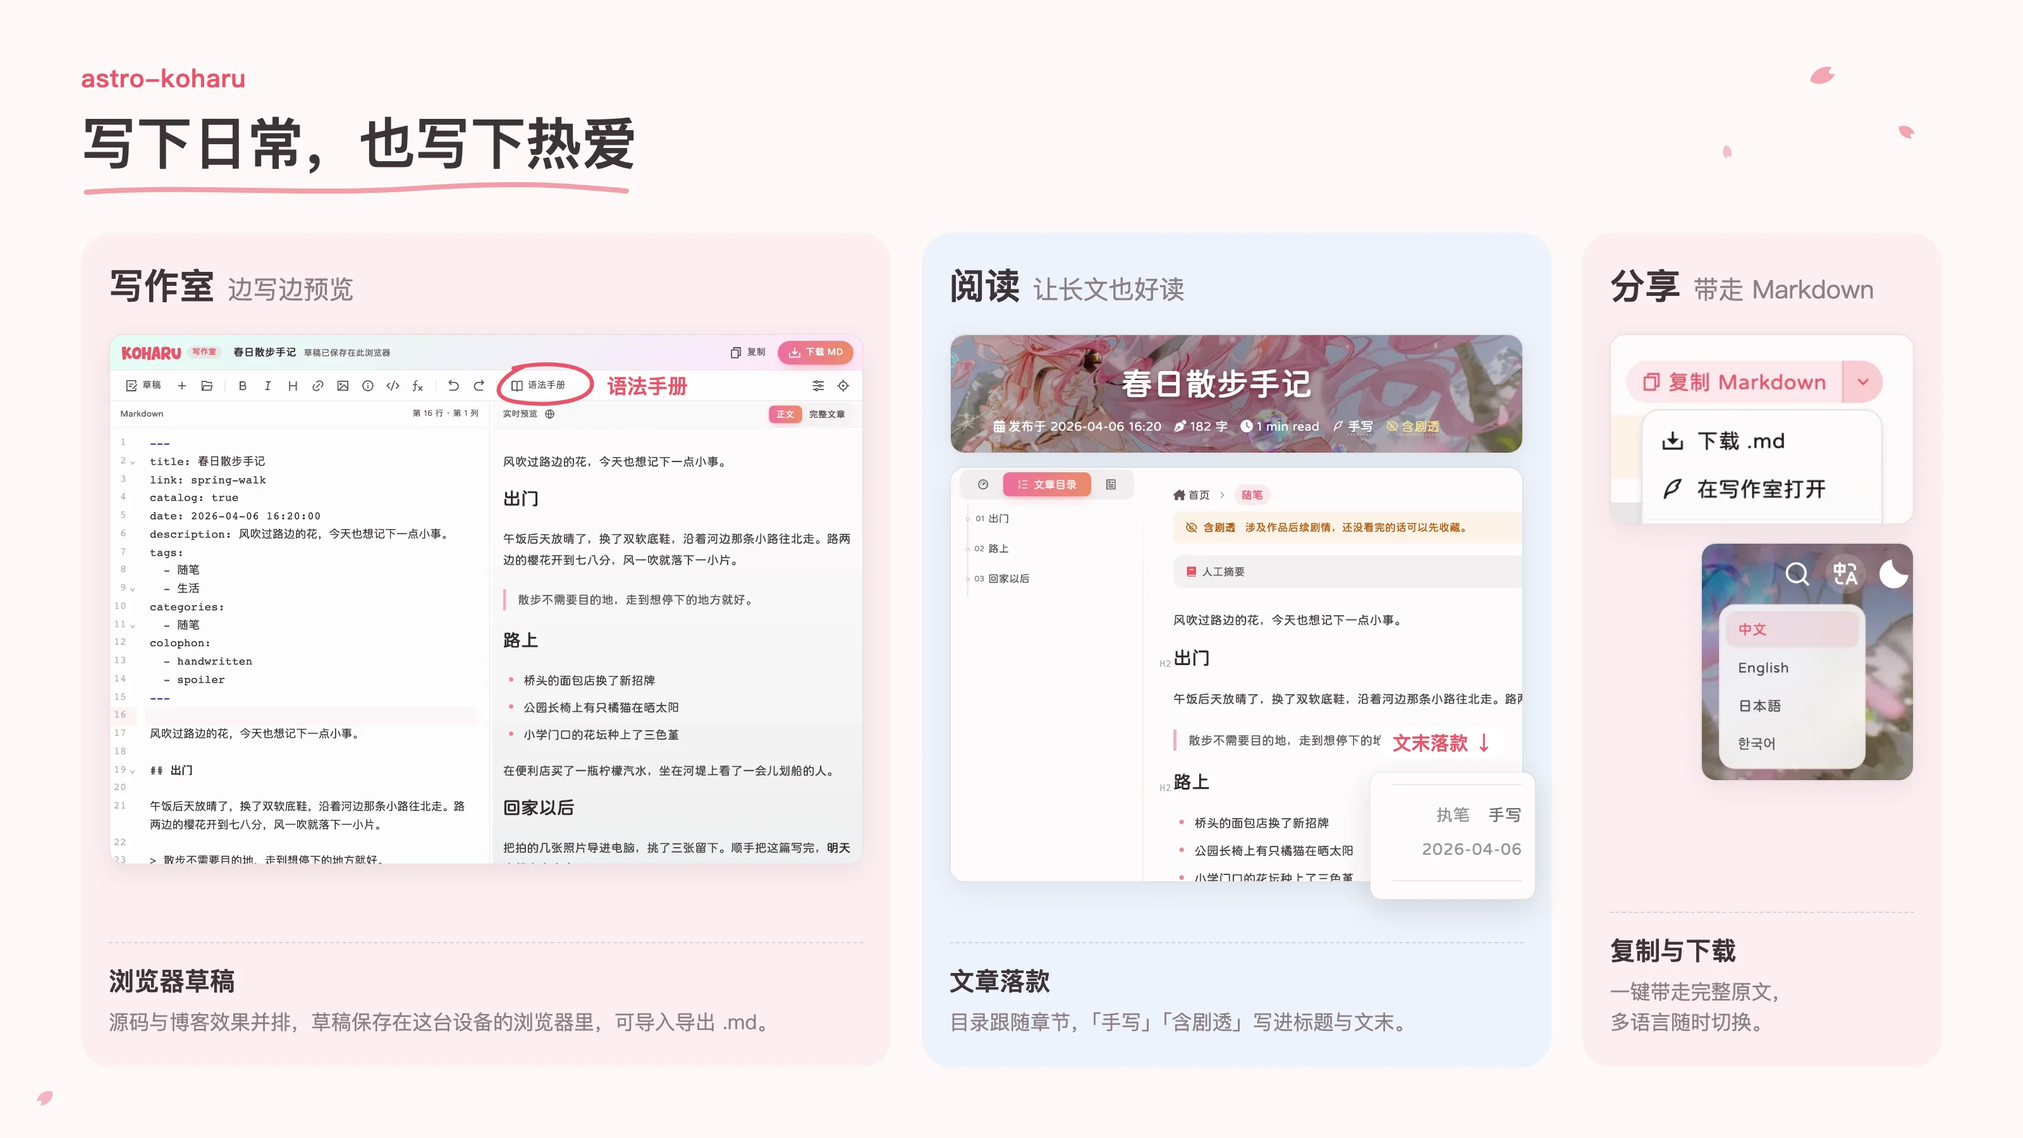
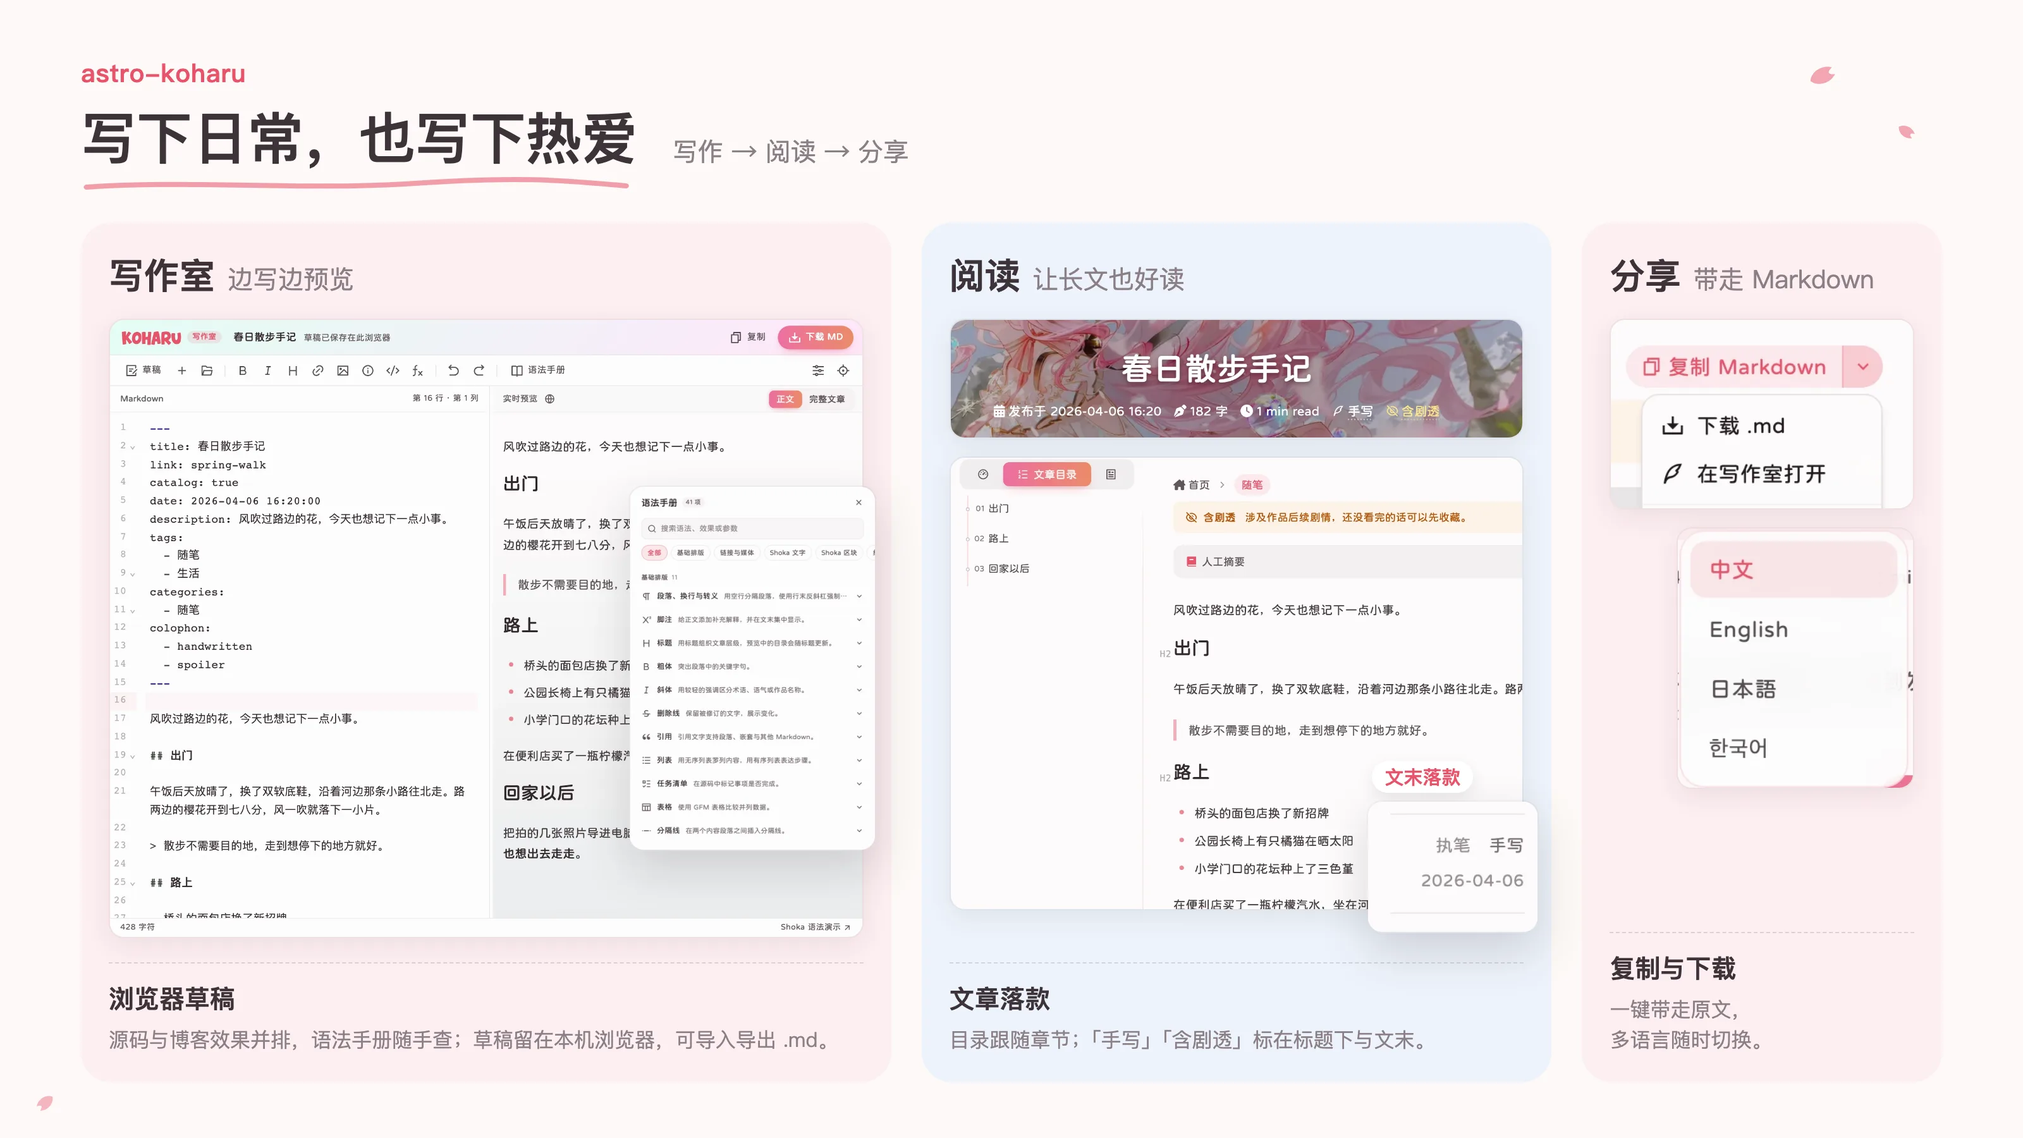
docs: polish README feature card and add markdown and organize cards

diff --git a/docs/design/readme-feature-overview/index.html b/docs/design/readme-feature-overview/index.html
@@ -1,114 +1,68 @@
 <!doctype html>
-<!--
-  README 功能概览图源文件（1600 × 900）。
-  截图来自演示文章《春日散步手记》，见 ../readme-visual-brief.md。
-  导出：用浏览器以 1600 × 900 视口截图，再转为 docs/assets/readme-feature-overview.zh.webp。
--->
+<!-- README 功能卡片：写作 · 阅读 · 分享。截图来自演示文章《春日散步手记》，见 ../readme-visual-brief.md。 -->
 <html lang="zh-CN">
   <head>
     <meta charset="utf-8" />
-    <title>astro-koharu README 功能概览</title>
+    <title>astro-koharu · 写作、阅读与分享</title>
+    <link rel="stylesheet" href="card.css" />
     <style>
-      :root {
-        --primary: hsl(351 77% 62%);
-        --ink: #3d3439;
-        --muted: #8a7f85;
-        --paper: #fdf9f7;
-        --pink: #fdeef1;
-        --blue: #edf3fb;
-        --line: rgb(61 52 57 / 0.08);
-      }
-      * { box-sizing: border-box; margin: 0; }
-      body {
-        position: relative;
-        width: 1600px;
-        height: 900px;
-        overflow: hidden;
-        background: var(--paper);
-        color: var(--ink);
-        font-family: 'PingFang SC', 'Hiragino Sans GB', 'Noto Sans SC', sans-serif;
-      }
-      header { padding: 48px 64px 0; }
-      .brand { color: var(--primary); font-size: 20px; font-weight: 600; letter-spacing: 0.02em; }
-      h1 { position: relative; display: inline-block; margin-top: 6px; font-size: 44px; font-weight: 600; }
-      h1 svg { position: absolute; left: 0; bottom: -14px; width: 100%; height: 16px; }
-
-      main { display: grid; grid-template-columns: 45fr 35fr 20fr; gap: 24px; padding: 40px 64px 0; }
-      .card { display: flex; flex-direction: column; border-radius: 24px; padding: 22px 22px 24px; height: 660px; }
-      .write, .share { background: var(--pink); }
-      .read { background: var(--blue); }
-      .card h2 { font-size: 28px; font-weight: 600; }
-      .card h2 span { margin-left: 10px; color: var(--muted); font-size: 20px; font-weight: 400; }
-      .shot { position: relative; margin-top: 18px; }
-      .shot img { display: block; width: 100%; border: 1px solid var(--line); border-radius: 12px; box-shadow: 0 6px 20px rgb(61 52 57 / 0.08); }
-      .note { margin-top: auto; padding-top: 16px; border-top: 1px dashed rgb(61 52 57 / 0.16); }
-      .note b { display: block; font-size: 20px; font-weight: 600; }
-      .note p { margin-top: 6px; color: var(--muted); font-size: 16px; line-height: 1.5; }
-
-      .ring { position: absolute; left: 310px; top: 22px; width: 76px; height: 36px; overflow: visible; }
-      .tag {
-        position: absolute; color: var(--primary); font-size: 16px; font-weight: 600; white-space: nowrap;
-      }
-      .write .tag { left: 394px; top: 30px; }
-      .read .shot + .shot { margin-top: 10px; }
-      .seal { position: absolute; right: -10px; bottom: -14px; width: 132px; }
-      .seal img { border-radius: 10px; box-shadow: 0 8px 24px rgb(61 52 57 / 0.14); }
-      .read .tag { right: 14px; bottom: 98px; padding: 2px 10px; border-radius: 999px; background: #fff; font-size: 15px; }
-      .share .shot + .shot { margin-top: 14px; }
-      .share .lang { width: 70%; margin-left: auto; }
-
-      .petal { position: absolute; width: 22px; height: 16px; fill: hsl(351 77% 80%); }
+      main { grid-template-columns: 45fr 35fr 20fr; }
+      .editor { height: 540px; }
+      .editor .float { top: 132px; right: -10px; width: 196px; }
+      .seal { right: -12px; bottom: -18px; width: 136px; }
+      .lang { width: 78%; margin-left: auto; }
+      .seal .label { margin: 0 0 6px 4px; background: #fff; box-shadow: 0 4px 12px rgb(61 52 57 / 0.1); }
     </style>
   </head>
   <body>
     <svg class="petal" style="left: 1430px; top: 52px; transform: rotate(-24deg)" viewBox="0 0 22 16"><path d="M1 8C5 1 15 0 21 5c-3 1-4 2-4 3s1 2 4 3C15 16 5 15 1 8Z" /></svg>
     <svg class="petal" style="left: 1500px; top: 96px; width: 15px; transform: rotate(32deg)" viewBox="0 0 22 16"><path d="M1 8C5 1 15 0 21 5c-3 1-4 2-4 3s1 2 4 3C15 16 5 15 1 8Z" /></svg>
-    <svg class="petal" style="left: 1360px; top: 112px; width: 12px; opacity: 0.7; transform: rotate(80deg)" viewBox="0 0 22 16"><path d="M1 8C5 1 15 0 21 5c-3 1-4 2-4 3s1 2 4 3C15 16 5 15 1 8Z" /></svg>
-    <svg class="petal" style="left: 28px; top: 860px; width: 16px; opacity: 0.8; transform: rotate(140deg)" viewBox="0 0 22 16"><path d="M1 8C5 1 15 0 21 5c-3 1-4 2-4 3s1 2 4 3C15 16 5 15 1 8Z" /></svg>
+    <svg class="petal" style="left: 28px; top: 864px; width: 16px; opacity: 0.8; transform: rotate(140deg)" viewBox="0 0 22 16"><path d="M1 8C5 1 15 0 21 5c-3 1-4 2-4 3s1 2 4 3C15 16 5 15 1 8Z" /></svg>
 
     <header>
-      <div class="brand">astro-koharu</div>
-      <h1>
-        写下日常，也写下热爱
-        <svg viewBox="0 0 400 16" preserveAspectRatio="none"><path d="M4 10C80 4 160 13 240 7s110-2 152 2" fill="none" stroke="hsl(351 77% 62% / 0.55)" stroke-width="4" stroke-linecap="round" /></svg>
-      </h1>
+      <div>
+        <div class="brand">astro-koharu</div>
+        <h1>
+          写下日常，也写下热爱
+          <svg viewBox="0 0 400 16" preserveAspectRatio="none"><path d="M4 10C80 4 160 13 240 7s110-2 152 2" fill="none" stroke="hsl(351 77% 62% / 0.55)" stroke-width="4" stroke-linecap="round" /></svg>
+        </h1>
+      </div>
+      <p>写作 → 阅读 → 分享</p>
     </header>
 
     <main>
-      <section class="card write">
+      <section class="card">
         <h2>写作室<span>边写边预览</span></h2>
-        <div class="shot">
-          <img src="shots/editor.webp" alt="" />
-          <svg class="ring" viewBox="0 0 60 28"><path d="M8 4C26-1 56 1 57 13S30 28 10 25 0 9 14 3" fill="none" stroke="hsl(351 77% 62%)" stroke-width="2.5" stroke-linecap="round" /></svg>
-          <span class="tag">语法手册</span>
+        <div class="shot editor">
+          <img src="shots/editor-wide.webp" alt="" />
+          <div class="float"><img src="shots/handbook.webp" alt="" /></div>
         </div>
         <div class="note">
           <b>浏览器草稿</b>
-          <p>源码与博客效果并排，草稿保存在这台设备的浏览器里，可导入导出 .md。</p>
+          <p>源码与博客效果并排，语法手册随手查；草稿留在本机浏览器，可导入导出 .md。</p>
         </div>
       </section>
 
-      <section class="card read">
+      <section class="card blue">
         <h2>阅读<span>让长文也好读</span></h2>
         <div class="shot"><img src="shots/hero.webp" alt="" /></div>
         <div class="shot">
           <img src="shots/body.webp" alt="" />
-          <span class="tag">文末落款 ↓</span>
-          <div class="seal"><img src="shots/seal.webp" alt="" /></div>
+          <div class="float seal"><span class="label">文末落款</span><img src="shots/seal.webp" alt="" /></div>
         </div>
         <div class="note">
           <b>文章落款</b>
-          <p>目录跟随章节，「手写」「含剧透」写进标题与文末。</p>
+          <p>目录跟随章节；「手写」「含剧透」标在标题下与文末。</p>
         </div>
       </section>
 
-      <section class="card share">
+      <section class="card">
         <h2>分享<span>带走 Markdown</span></h2>
         <div class="shot"><img src="shots/menu.webp" alt="" /></div>
         <div class="shot lang"><img src="shots/lang.webp" alt="" /></div>
         <div class="note">
           <b>复制与下载</b>
-          <p>一键带走完整原文，<br />多语言随时切换。</p>
+          <p>一键带走原文，<br />多语言随时切换。</p>
         </div>
       </section>
     </main>

diff --git a/docs/design/readme-feature-overview/markdown.html b/docs/design/readme-feature-overview/markdown.html
@@ -1,0 +1,77 @@
+<!doctype html>
+<!-- README 功能卡片：写丰富的正文。截图来自示例文章（Shoka 语法、Markdown 增强、贝叶斯练习、信息图指南）。 -->
+<html lang="zh-CN">
+  <head>
+    <meta charset="utf-8" />
+    <title>astro-koharu · 写丰富的正文</title>
+    <link rel="stylesheet" href="card.css" />
+    <style>
+      main { grid-template-columns: 37fr 35fr 28fr; height: 704px; }
+      .math { width: 82%; margin: 4px auto 0; }
+    </style>
+  </head>
+  <body>
+    <svg class="petal" style="left: 1430px; top: 52px; transform: rotate(-24deg)" viewBox="0 0 22 16"><path d="M1 8C5 1 15 0 21 5c-3 1-4 2-4 3s1 2 4 3C15 16 5 15 1 8Z" /></svg>
+    <svg class="petal" style="left: 1500px; top: 96px; width: 15px; transform: rotate(32deg)" viewBox="0 0 22 16"><path d="M1 8C5 1 15 0 21 5c-3 1-4 2-4 3s1 2 4 3C15 16 5 15 1 8Z" /></svg>
+    <svg class="petal" style="left: 28px; top: 864px; width: 16px; opacity: 0.8; transform: rotate(140deg)" viewBox="0 0 22 16"><path d="M1 8C5 1 15 0 21 5c-3 1-4 2-4 3s1 2 4 3C15 16 5 15 1 8Z" /></svg>
+
+    <header>
+      <div>
+        <div class="brand">astro-koharu</div>
+        <h1>
+          写丰富的正文
+          <svg viewBox="0 0 400 16" preserveAspectRatio="none"><path d="M4 10C80 4 160 13 240 7s110-2 152 2" fill="none" stroke="hsl(351 77% 62% / 0.55)" stroke-width="4" stroke-linecap="round" /></svg>
+        </h1>
+      </div>
+      <p>沿用 Shoka 语法，再加上图表、公式和练习题，都可按需开关</p>
+    </header>
+
+    <main>
+      <div class="col">
+        <div class="tile fade">
+          <span class="label">提醒块</span>
+          <div class="stack">
+            <img src="shots/note-info.webp" alt="" />
+            <img src="shots/note-success.webp" alt="" />
+            <img src="shots/note-warning.webp" alt="" />
+            <img src="shots/note-danger.webp" alt="" />
+          </div>
+        </div>
+        <div class="tile fade">
+          <span class="label">标签卡</span>
+          <img src="shots/tabs.webp" alt="" />
+        </div>
+      </div>
+
+      <div class="col">
+        <div class="tile">
+          <span class="label">信息图</span>
+          <img src="shots/info-flow.webp" alt="" />
+        </div>
+        <div class="tile">
+          <span class="label">Mermaid</span>
+          <img src="shots/mermaid.webp" alt="" />
+        </div>
+        <div class="tile fade">
+          <span class="label">折叠</span>
+          <img src="shots/collapse.webp" alt="" />
+        </div>
+      </div>
+
+      <div class="col">
+        <div class="tile fade">
+          <span class="label">练习题</span>
+          <img src="shots/quiz.webp" alt="" />
+        </div>
+        <div class="tile">
+          <span class="label">公式</span>
+          <img class="math" src="shots/math.webp" alt="" />
+        </div>
+        <div class="tile">
+          <span class="label">步骤图</span>
+          <img src="shots/info-steps.webp" alt="" />
+        </div>
+      </div>
+    </main>
+  </body>
+</html>

diff --git a/docs/design/readme-feature-overview/organize.html b/docs/design/readme-feature-overview/organize.html
@@ -1,0 +1,71 @@
+<!doctype html>
+<!-- README 功能卡片：整理与个性化。截图来自示例站点的归档、周刊、友链、搜索与设置面板。 -->
+<html lang="zh-CN">
+  <head>
+    <meta charset="utf-8" />
+    <title>astro-koharu · 整理与个性化</title>
+    <link rel="stylesheet" href="card.css" />
+    <style>
+      main { grid-template-columns: 38fr 33fr 29fr; height: 704px; }
+      .tile.dark { background: #1d1823; }
+      .tile.dark .label { background: rgb(255 255 255 / 0.1); color: hsl(351 77% 76%); }
+      .tile.dark img { border-radius: 10px; }
+      .settings img { width: 78%; margin: 0 auto; border-radius: 12px; box-shadow: 0 8px 24px rgb(61 52 57 / 0.12); }
+    </style>
+  </head>
+  <body>
+    <svg class="petal" style="left: 1430px; top: 52px; transform: rotate(-24deg)" viewBox="0 0 22 16"><path d="M1 8C5 1 15 0 21 5c-3 1-4 2-4 3s1 2 4 3C15 16 5 15 1 8Z" /></svg>
+    <svg class="petal" style="left: 1500px; top: 96px; width: 15px; transform: rotate(32deg)" viewBox="0 0 22 16"><path d="M1 8C5 1 15 0 21 5c-3 1-4 2-4 3s1 2 4 3C15 16 5 15 1 8Z" /></svg>
+    <svg class="petal" style="left: 28px; top: 864px; width: 16px; opacity: 0.8; transform: rotate(140deg)" viewBox="0 0 22 16"><path d="M1 8C5 1 15 0 21 5c-3 1-4 2-4 3s1 2 4 3C15 16 5 15 1 8Z" /></svg>
+
+    <header>
+      <div>
+        <div class="brand">astro-koharu</div>
+        <h1>
+          整理与个性化
+          <svg viewBox="0 0 400 16" preserveAspectRatio="none"><path d="M4 10C80 4 160 13 240 7s110-2 152 2" fill="none" stroke="hsl(351 77% 62% / 0.55)" stroke-width="4" stroke-linecap="round" /></svg>
+        </h1>
+      </div>
+      <p>归档、系列和友链各有归处，读者也能调成自己喜欢的样子</p>
+    </header>
+
+    <main>
+      <div class="col">
+        <div class="tile">
+          <span class="label">写作日历</span>
+          <img src="shots/calendar.webp" alt="" />
+        </div>
+        <div class="tile">
+          <span class="label">归档</span>
+          <img src="shots/archive.webp" alt="" />
+        </div>
+        <div class="tile">
+          <span class="label">系列周刊</span>
+          <img src="shots/weekly.webp" alt="" />
+        </div>
+      </div>
+
+      <div class="col">
+        <div class="tile">
+          <span class="label">全站搜索</span>
+          <img src="shots/search.webp" alt="" />
+        </div>
+        <div class="tile">
+          <span class="label">友链分组</span>
+          <img src="shots/friends.webp" alt="" />
+        </div>
+      </div>
+
+      <div class="col">
+        <div class="tile dark">
+          <span class="label">夜樱深色</span>
+          <img src="shots/dark.webp" alt="" />
+        </div>
+        <div class="tile settings">
+          <span class="label">阅读设置与动效强度</span>
+          <img src="shots/settings.webp" alt="" />
+        </div>
+      </div>
+    </main>
+  </body>
+</html>

diff --git a/docs/design/readme-feature-overview/card.css b/docs/design/readme-feature-overview/card.css
@@ -1,0 +1,50 @@
+/* Shared look of the README feature cards (1600 × 900, rendered at 2×). */
+:root {
+  --primary: hsl(351 77% 62%);
+  --ink: #3d3439;
+  --muted: #8a7f85;
+  --paper: #fdf9f7;
+  --pink: #fdeef1;
+  --blue: #edf3fb;
+  --line: rgb(61 52 57 / 0.08);
+}
+* { box-sizing: border-box; margin: 0; }
+body {
+  position: relative;
+  width: 1600px;
+  height: 900px;
+  overflow: hidden;
+  background: var(--paper);
+  color: var(--ink);
+  font-family: 'PingFang SC', 'Hiragino Sans GB', 'Noto Sans SC', sans-serif;
+}
+header { display: flex; align-items: flex-end; gap: 28px; padding: 44px 64px 0; }
+.brand { color: var(--primary); font-size: 20px; font-weight: 600; letter-spacing: 0.02em; }
+h1 { position: relative; display: inline-block; margin-top: 6px; font-size: 44px; font-weight: 600; }
+h1 svg { position: absolute; left: 0; bottom: -14px; width: 100%; height: 16px; }
+header p { padding-bottom: 6px; color: var(--muted); font-size: 20px; }
+
+main { display: grid; gap: 24px; padding: 36px 64px 0; }
+.card { display: flex; flex-direction: column; gap: 14px; height: 680px; padding: 22px; border-radius: 24px; background: var(--pink); }
+.card.blue { background: var(--blue); }
+.card h2 { font-size: 28px; font-weight: 600; }
+.card h2 span { margin-left: 10px; color: var(--muted); font-size: 20px; font-weight: 400; }
+.note { margin-top: auto; padding-top: 14px; border-top: 1px dashed rgb(61 52 57 / 0.16); }
+.note b { display: block; font-size: 20px; font-weight: 600; }
+.note p { margin-top: 6px; color: var(--muted); font-size: 16px; line-height: 1.5; }
+
+.shot { position: relative; }
+.shot > img, .tile img, .float img { display: block; width: 100%; }
+.shot > img { border: 1px solid var(--line); border-radius: 12px; box-shadow: 0 6px 20px rgb(61 52 57 / 0.08); }
+.float { position: absolute; }
+.float img { border: 1px solid var(--line); border-radius: 12px; box-shadow: 0 14px 36px rgb(61 52 57 / 0.18); }
+
+/* A captioned snippet: white paper, pink label chip. */
+.col { display: flex; flex-direction: column; gap: 16px; min-width: 0; }
+.tile { padding: 14px 16px 16px; border-radius: 16px; background: #fff; box-shadow: 0 6px 20px rgb(61 52 57 / 0.06); }
+.label { display: inline-block; margin-bottom: 10px; padding: 2px 10px; border-radius: 999px; background: var(--pink); color: var(--primary); font-size: 15px; font-weight: 600; }
+.stack { display: flex; flex-direction: column; gap: 8px; }
+/* Prose snippets are left-aligned; cut the empty right side and fade the cut. */
+.fade img { mask-image: linear-gradient(to right, #000 82%, transparent); }
+
+.petal { position: absolute; width: 22px; height: 16px; fill: hsl(351 77% 80%); }

diff --git a/docs/design/readme-visual-brief.md b/docs/design/readme-visual-brief.md
@@ -1,6 +1,6 @@
 # README 新功能概览图设计说明
 
-本轮保留三份 README 的所有现有图片。中文版已放入 `docs/assets/readme-feature-overview.zh.webp`，源文件在 `docs/design/readme-feature-overview/`；英文、日文 README 仍保留不可见的注释预留位，等本地化界面截图后再补。
+本轮保留三份 README 的所有现有图片。中文 README 有三张功能卡片：写作 · 阅读 · 分享（`readme-feature-overview.zh.webp`）、写丰富的正文（`readme-feature-markdown.zh.webp`）、整理与个性化（`readme-feature-organize.zh.webp`），都在 `docs/assets/`，源文件在 `docs/design/readme-feature-overview/`；英文、日文 README 仍保留不可见的注释预留位，等本地化界面截图后再补。
 
 ## 目标与风格
 
@@ -24,7 +24,7 @@
 
 - 交付一个文字清晰的 WebP 或 PNG，建议控制在 500 KB 内；保留可编辑源文件供后续更新。
 - 新资产放入 `docs/assets/readme-feature-overview.zh.webp`，生成后再把 README 中的注释替换为有意义的 alt 文本与图片链接。不要提前引用不存在的文件。
-- 更新方法：用演示文章重拍截图，裁切后替换 `docs/design/readme-feature-overview/shots/`，在浏览器以 1600 × 900 视口、2 倍像素比截图 `index.html`，再用 `cwebp -q 82` 导出。截图前隐藏 `astro-dev-toolbar`。
+- 更新方法：从示例站点的构建（`pnpm build` 后 `astro preview`）以 2 倍像素比重拍截图，裁切后替换 `docs/design/readme-feature-overview/shots/`，再运行 `node docs/design/readme-feature-overview/render.mjs` 导出三张卡片（需要 `cwebp`）。三张卡片共用 `card.css`。截图前隐藏 `astro-dev-toolbar`，并避开预览站没能加载的外部图片。
 - 中、英、日三份 README 使用同一构图。可分别提供本地化版本，也可提供少文字的通用版本；中文画面不能标成已本地化的英文或日文界面。
 - 英文标题可用「A place for notes and everyday stories」，三栏用「Write / Read / Share」；日文可用「日々のことも、好きなことも」，三栏用「書く / 読む / 共有する」。
 - 不放性能分数、用户数量或尚未实现的功能，不把浏览器草稿画成远端发布。CMS 保存如需展示，应标明「本地 CMS」。

diff --git a/README.md b/README.md
@@ -62,6 +62,10 @@
 
 ![功能概览：写作室边写边预览，文章页带目录与落款，文章操作可复制、下载 Markdown 并切换语言](./docs/assets/readme-feature-overview.zh.webp)
 
+![写丰富的正文：提醒块、标签卡、信息图、Mermaid、折叠、练习题与公式](./docs/assets/readme-feature-markdown.zh.webp)
+
+![整理与个性化：写作日历、归档、系列周刊、全站搜索、友链分组、夜樱深色与设置面板](./docs/assets/readme-feature-organize.zh.webp)
+
 ## 写作与管理
 
 安装后，在仓库根目录创建第一篇文章：
